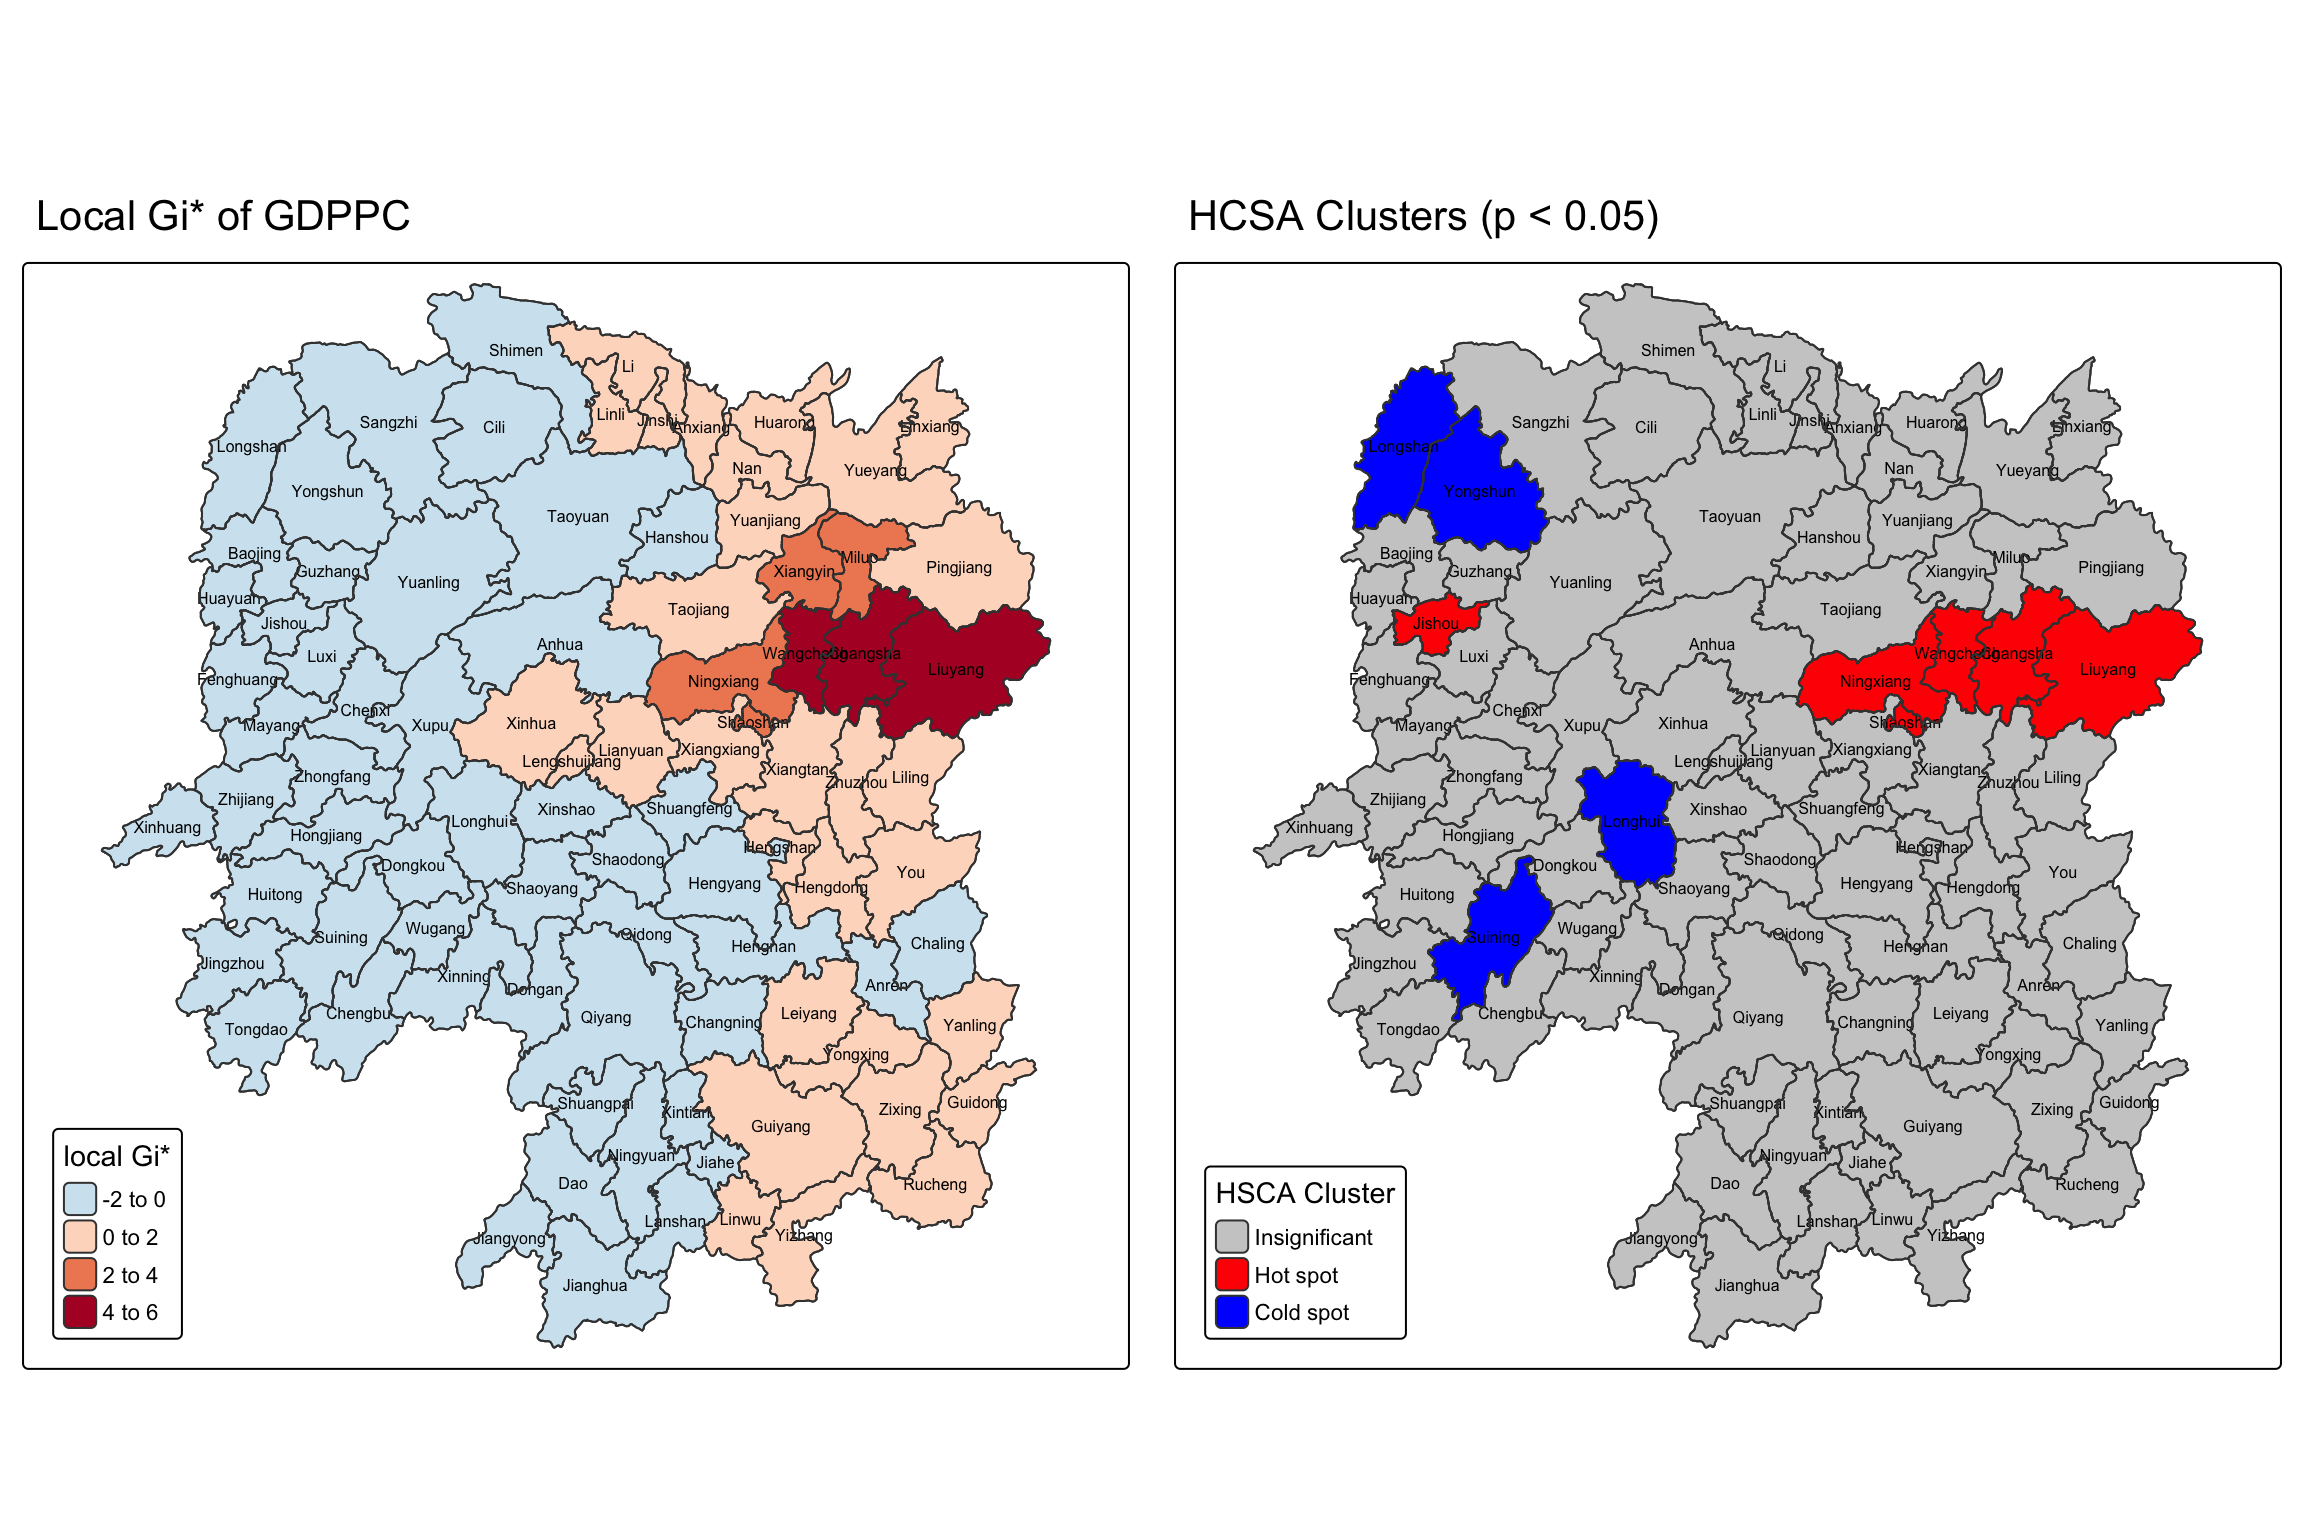
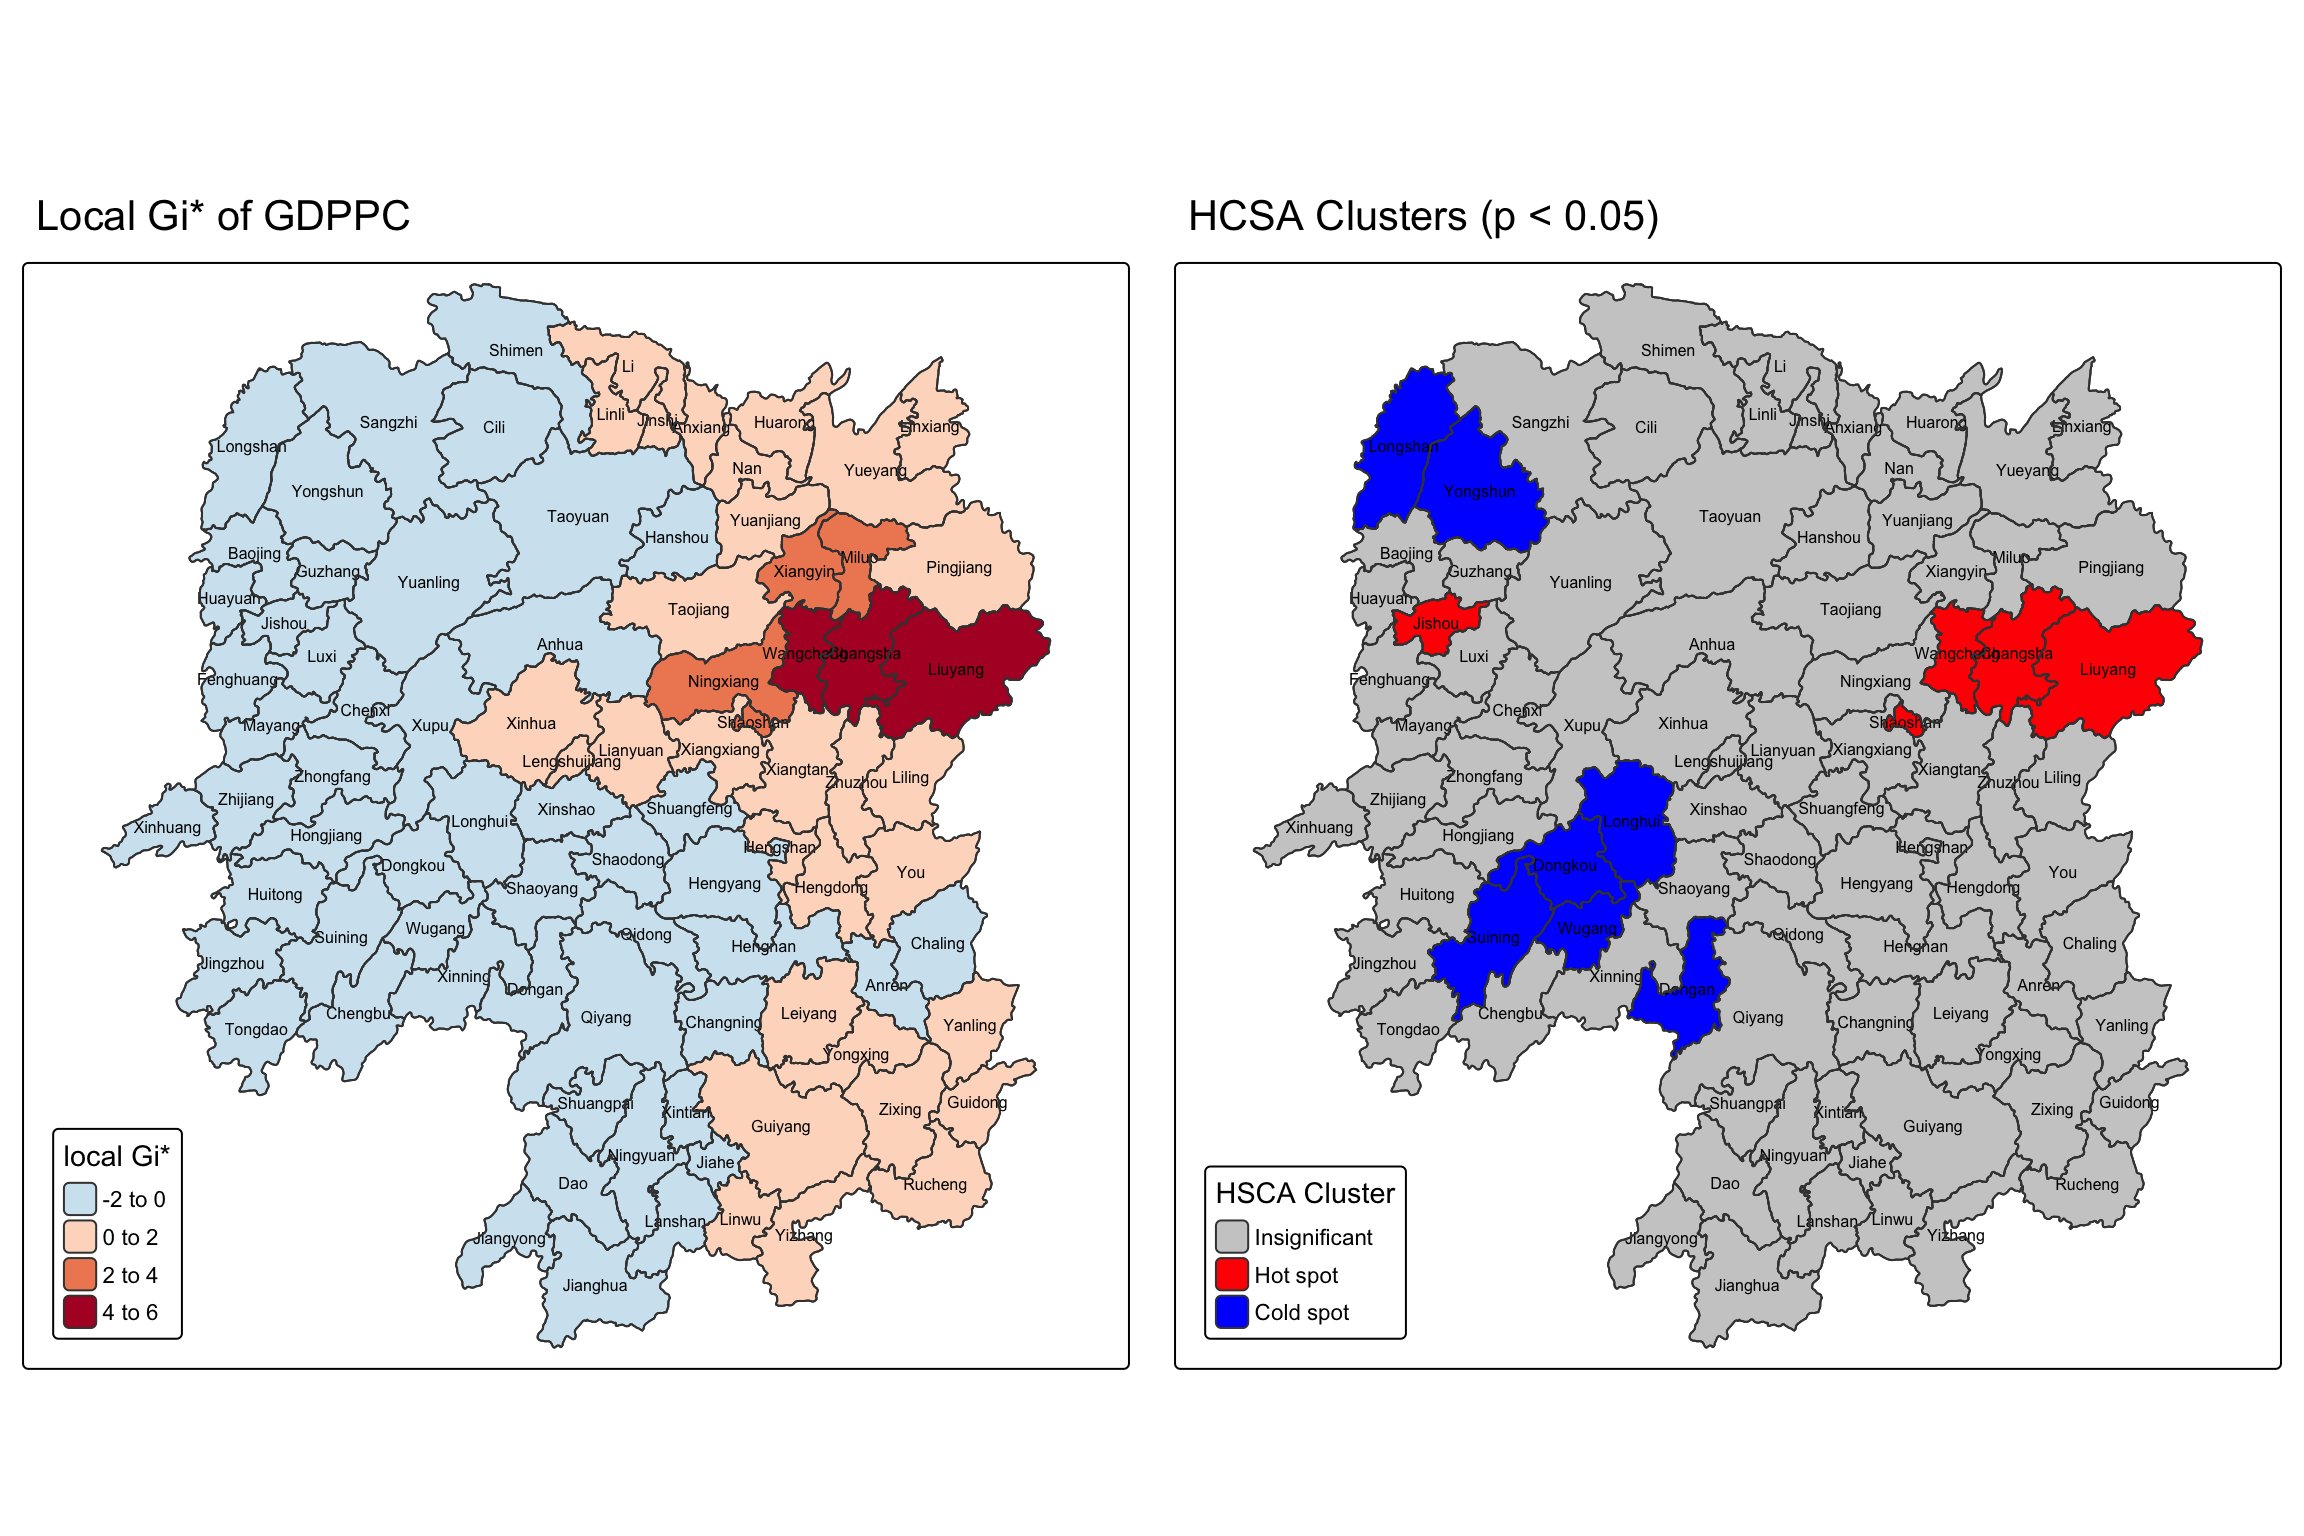
commit1010v3 new rendering

Changed region(s): [[0.625, 0.5312, 0.75, 0.6875], [0.7812, 0.4062, 0.8438, 0.4688]]

diff --git a/_site/Hands-on_Ex/Hands-on_Ex05/Hands-on_Ex05b.html b/_site/Hands-on_Ex/Hands-on_Ex05/Hands-on_Ex05b.html
@@ -308,7 +308,7 @@ pre > code.sourceCode > span > a:first-child::before { text-decoration: underlin
     <div>
     <div class="quarto-title-meta-heading">Modified</div>
     <div class="quarto-title-meta-contents">
-      <p class="date-modified">October 9, 2025</p>
+      <p class="date-modified">October 10, 2025</p>
     </div>
   </div>
     
@@ -994,12 +994,13 @@ Projected CRS: WGS 84 / UTM zone 50N
 <p>Local Gi* (pronounced “G-i-star”) is a Getis-Ord statistic used in spatial analysis to identify statistically significant hot spots and cold spots of high or low attribute values within a dataset. It measures the spatial clustering of values by comparing the total value within a specified neighborhood to the global total, producing a Z-score and p-value for each location to determine the likelihood that the observed pattern is not due to random chance.</p>
 <p>In this sub-section, we will gain hands-on experience on performing Gi* analysis by using <code>local_gstar_perm()</code> of <strong>sfdep</strong> package.</p>
 <div class="cell">
-<div class="sourceCode cell-code" id="cb29"><pre class="sourceCode r code-with-copy"><code class="sourceCode r"><span id="cb29-1"><a href="#cb29-1" aria-hidden="true" tabindex="-1"></a>HCSA_fdw <span class="ot">&lt;-</span> hunan_fdw <span class="sc">%&gt;%</span></span>
-<span id="cb29-2"><a href="#cb29-2" aria-hidden="true" tabindex="-1"></a>  <span class="fu">mutate</span>(</span>
-<span id="cb29-3"><a href="#cb29-3" aria-hidden="true" tabindex="-1"></a>    <span class="at">gistar =</span> <span class="fu">local_gstar_perm</span>(</span>
-<span id="cb29-4"><a href="#cb29-4" aria-hidden="true" tabindex="-1"></a>      GDPPC, nb, wt, <span class="at">nsim =</span> <span class="dv">99</span>),</span>
-<span id="cb29-5"><a href="#cb29-5" aria-hidden="true" tabindex="-1"></a>    <span class="at">.before =</span> <span class="dv">1</span>) <span class="sc">%&gt;%</span></span>
-<span id="cb29-6"><a href="#cb29-6" aria-hidden="true" tabindex="-1"></a>  <span class="fu">unnest</span>(gistar)</span></code><button title="Copy to Clipboard" class="code-copy-button"><i class="bi"></i></button></pre></div>
+<div class="sourceCode cell-code" id="cb29"><pre class="sourceCode r code-with-copy"><code class="sourceCode r"><span id="cb29-1"><a href="#cb29-1" aria-hidden="true" tabindex="-1"></a><span class="fu">set.seed</span>(<span class="dv">1234</span>)</span>
+<span id="cb29-2"><a href="#cb29-2" aria-hidden="true" tabindex="-1"></a>HCSA_fdw <span class="ot">&lt;-</span> hunan_fdw <span class="sc">%&gt;%</span></span>
+<span id="cb29-3"><a href="#cb29-3" aria-hidden="true" tabindex="-1"></a>  <span class="fu">mutate</span>(</span>
+<span id="cb29-4"><a href="#cb29-4" aria-hidden="true" tabindex="-1"></a>    <span class="at">gistar =</span> <span class="fu">local_gstar_perm</span>(</span>
+<span id="cb29-5"><a href="#cb29-5" aria-hidden="true" tabindex="-1"></a>      GDPPC, nb, wt, <span class="at">nsim =</span> <span class="dv">99</span>),</span>
+<span id="cb29-6"><a href="#cb29-6" aria-hidden="true" tabindex="-1"></a>    <span class="at">.before =</span> <span class="dv">1</span>) <span class="sc">%&gt;%</span></span>
+<span id="cb29-7"><a href="#cb29-7" aria-hidden="true" tabindex="-1"></a>  <span class="fu">unnest</span>(gistar)</span></code><button title="Copy to Clipboard" class="code-copy-button"><i class="bi"></i></button></pre></div>
 </div>
 </section>
 <section id="preparing-and-visualising-hcsa-map" class="level2">
